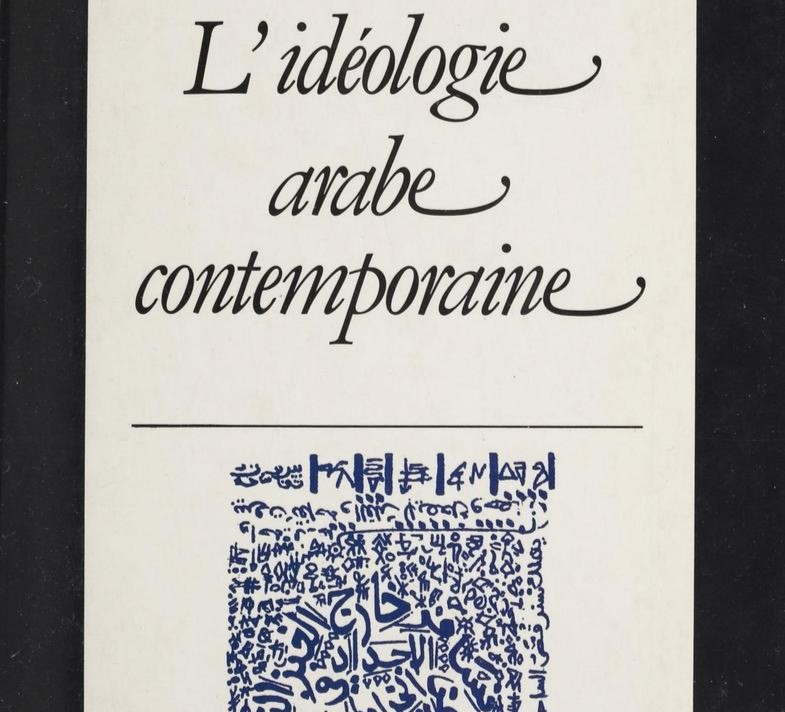
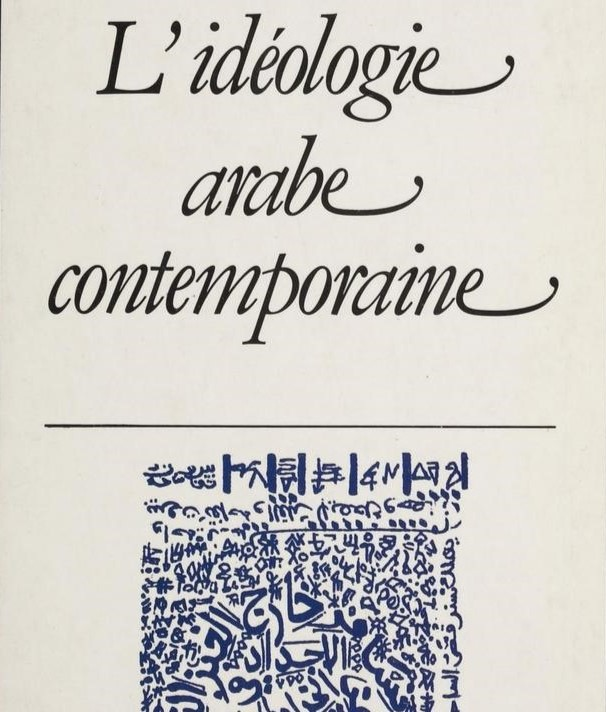
improve thumbnails, remove cv name toc link

diff --git a/customtheme.scss b/customtheme.scss
@@ -36,7 +36,7 @@ $navbar-bg:          #2C2926;
 .quarto-title-banner h1.title,
 .quarto-title-banner .title        { color: #F2EDE4 !important; }
 .quarto-title-banner .description,
-.quarto-title-banner p             { color: #ABA49A !important; }
+.quarto-title-banner p             { color: #ABA49A !important; margin-top: 0.75rem !important; }
 
 /* accent: tags in article banner */
 .quarto-title-banner .quarto-categories .quarto-category {
@@ -141,13 +141,40 @@ $navbar-bg:          #2C2926;
 }
 
 /* ── Thumbnails ── */
-.listing-image img,
-.quarto-post img {
+.quarto-post .thumbnail {
+  aspect-ratio: 16 / 9;
+  overflow: hidden;
   border-radius: 4px;
-  opacity: 0.75;
-  transition: opacity 0.2s ease;
+  background-color: #2C2926;
 }
-.quarto-post:hover img { opacity: 1; }
+
+.quarto-post .thumbnail a {
+  display: block;
+  width: 100%;
+  height: 100%;
+}
+
+/* Quarto sometimes wraps the img in a <p class="card-img-top"> */
+.quarto-post .thumbnail .card-img-top {
+  margin: 0;
+  padding: 0;
+  width: 100%;
+  height: 100%;
+}
+
+.thumbnail-image {
+  width: 100% !important;
+  height: 100% !important;
+  object-fit: cover;
+  object-position: center;
+  border-radius: 4px;
+  filter: saturate(0.2) brightness(0.75);
+  transition: filter 0.25s ease;
+}
+
+.quarto-post:hover .thumbnail-image {
+  filter: saturate(1) brightness(1);
+}
 
 /* ── Sidebar: "CATEGORIES" label ── */
 .quarto-listing-category-title {

diff --git a/cv.css b/cv.css
@@ -21,6 +21,10 @@
   border-bottom: 1px solid var(--cv-rule);
 }
 
+.cv-name .anchorjs-link {
+  display: none !important;
+}
+
 .cv-name {
   font-family: var(--cv-display);
   font-weight: 700;